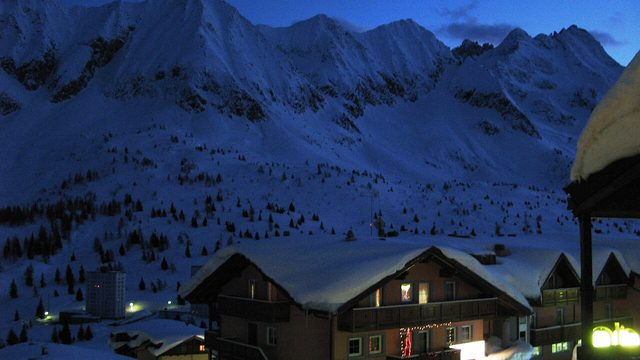
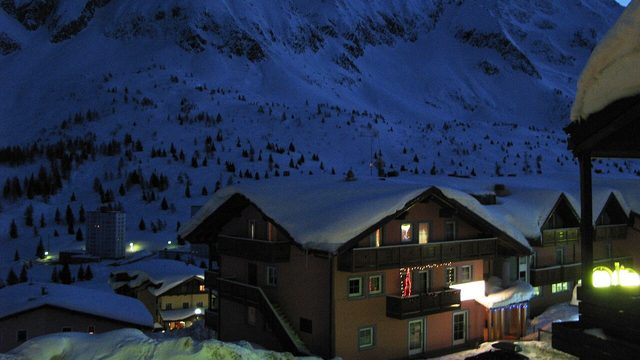
Photo credits only on the ski area pages, shortened to author via Wikimedia Commons; Tonale crop shows the whole house
Claude-Session: https://claude.ai/code/session_017JbZTVxU1rMxbwu8n2y5s2

diff --git a/_includes/ski-card.html b/_includes/ski-card.html
@@ -9,6 +9,5 @@
   <p class="skicard-time"><strong>{{ a.car }}</strong> by car &middot; {{ a.top }} top</p>
   <p class="skicard-vibe">{{ a.short }}</p>
   <span class="skicard-more">Read more</span>
-  {% if a.photo_credit %}<p class="skicard-credit">{{ a.photo_credit }}</p>{% endif %}
 </article>
 {%- endif -%}

diff --git a/articles/index.md b/articles/index.md
@@ -24,7 +24,6 @@ Some questions need more than a filter. These are written, checked on the ground
     <h2>Where to go skiing from Florence this winter</h2>
     <p>Fourteen ski areas sorted by driving time: two hours, four to five, and five or more. 2026/27 lift prices, size and altitude for each.</p>
     <span class="meta">Researched November 2026 &middot; 14 ski areas</span>
-    {% include ski-thumb.html id="valgardena" part="credit" %}
   </a>
   <a class="artcard has-photo" href="/articles/where-to-eat-and-stay-in-ponte-di-legno/">
     {% include ski-thumb.html id="pontedilegno" %}
@@ -32,7 +31,6 @@ Some questions need more than a filter. These are written, checked on the ground
     <h2>Ponte di Legno and the Tonale: a weekend on the snow</h2>
     <p>Casoncelli, gnoc de la cua and Silter cheese. Dinner in the valley, huts on the slopes, and which village to sleep in.</p>
     <span class="meta">Researched November 2026</span>
-    {% include ski-thumb.html id="pontedilegno" part="credit" %}
   </a>
   <a class="artcard has-photo" href="/articles/where-to-eat-and-stay-in-the-dolomites/">
     {% include ski-thumb.html id="fassa" %}
@@ -40,7 +38,6 @@ Some questions need more than a filter. These are written, checked on the ground
     <h2>The Dolomites from Florence: three valleys, three weekends</h2>
     <p>Val Gardena, Cortina and Madonna di Campiglio: a dinner, a mountain hut and a hotel in each.</p>
     <span class="meta">Researched November 2026</span>
-    {% include ski-thumb.html id="fassa" part="credit" %}
   </a>
   <a class="artcard has-photo" href="/articles/where-to-eat-and-stay-in-abetone/">
     {% include ski-thumb.html id="abetone" %}
@@ -48,7 +45,6 @@ Some questions need more than a filter. These are written, checked on the ground
     <h2>Abetone: a day on the snow from Florence</h2>
     <p>Ski at Abetone, eat in Cutigliano. A Bib Gourmand trattoria, tortelli at a refuge, and two hotels by the lifts.</p>
     <span class="meta">Researched November 2026</span>
-    {% include ski-thumb.html id="abetone" part="credit" %}
   </a>
   <a class="artcard has-photo" href="/articles/where-to-eat-and-stay-on-the-cimone/">
     {% include ski-thumb.html id="cimone" %}
@@ -56,7 +52,6 @@ Some questions need more than a filter. These are written, checked on the ground
     <h2>The Cimone: skiing with the best food in the Apennines</h2>
     <p>Tigelle country. A medieval inn near Sestola, a refuge hotel at the lifts, and where to eat in Fanano.</p>
     <span class="meta">Researched November 2026</span>
-    {% include ski-thumb.html id="cimone" part="credit" %}
   </a>
   <a class="artcard has-photo" href="/articles/where-to-eat-and-stay-in-val-gardena/">
     {% include ski-thumb.html id="valgardena" %}
@@ -64,7 +59,6 @@ Some questions need more than a filter. These are written, checked on the ground
     <h2>Val Gardena: wooden villages and the Sellaronda</h2>
     <p>The Dolomites trip that works by train. Seceda, Selva, Ortisei and the huts worth the stop.</p>
     <span class="meta">Researched November 2026</span>
-    {% include ski-thumb.html id="valgardena" part="credit" %}
   </a>
   <a class="artcard has-photo" href="/articles/where-to-eat-and-stay-in-cortina/">
     {% include ski-thumb.html id="cortina" %}
@@ -72,7 +66,6 @@ Some questions need more than a filter. These are written, checked on the ground
     <h2>Cortina: the most beautiful skiing in the Dolomites</h2>
     <p>Lagazuoi, Cinque Torri, Rifugio Averau and a Michelin star in town.</p>
     <span class="meta">Researched November 2026</span>
-    {% include ski-thumb.html id="cortina" part="credit" %}
   </a>
   <a class="artcard has-photo" href="/articles/where-to-eat-and-stay-in-madonna-di-campiglio/">
     {% include ski-thumb.html id="campiglio" %}
@@ -80,7 +73,6 @@ Some questions need more than a filter. These are written, checked on the ground
     <h2>Madonna di Campiglio: polished slopes under the Brenta</h2>
     <p>Groomed runs, a walkable village, lunch at the Spinale and the Grostè.</p>
     <span class="meta">Researched November 2026</span>
-    {% include ski-thumb.html id="campiglio" part="credit" %}
   </a>
   <a class="artcard has-photo" href="/articles/where-to-eat-and-stay-at-corno-alle-scale/">
     {% include ski-thumb.html id="corno" %}
@@ -88,7 +80,6 @@ Some questions need more than a filter. These are written, checked on the ground
     <h2>Corno alle Scale: small, wild and quiet</h2>
     <p>The emptiest snow within two hours of Florence, inside a regional park.</p>
     <span class="meta">Researched November 2026</span>
-    {% include ski-thumb.html id="corno" part="credit" %}
   </a>
   <a class="artcard has-photo" href="/articles/where-to-eat-and-stay-in-livigno/">
     {% include ski-thumb.html id="livigno" %}
@@ -96,7 +87,6 @@ Some questions need more than a filter. These are written, checked on the ground
     <h2>Livigno: high, cold and full of snow</h2>
     <p>Snow from November to May, two ski sides, pizzoccheri and sciatt, and duty-free evenings.</p>
     <span class="meta">Researched November 2026</span>
-    {% include ski-thumb.html id="livigno" part="credit" %}
   </a>
   <a class="artcard has-photo" href="/articles/where-to-eat-and-stay-in-cervinia/">
     {% include ski-thumb.html id="cervinia" %}
@@ -104,7 +94,6 @@ Some questions need more than a filter. These are written, checked on the ground
     <h2>Cervinia: skiing under the Matterhorn</h2>
     <p>Lunch facing the Matterhorn, a dinner worth leaving the village for, and a hotel you can ski to.</p>
     <span class="meta">Researched November 2026</span>
-    {% include ski-thumb.html id="cervinia" part="credit" %}
   </a>
   <a class="artcard has-photo" href="/articles/where-to-eat-and-stay-in-alta-badia/">
     {% include ski-thumb.html id="altabadia" %}
@@ -112,7 +101,6 @@ Some questions need more than a filter. These are written, checked on the ground
     <h2>Alta Badia: the Dolomites at their most refined</h2>
     <p>The Sellaronda from Corvara, grilled meat at Rifugio Scotoni and seafood at 2,000 metres.</p>
     <span class="meta">Researched November 2026</span>
-    {% include ski-thumb.html id="altabadia" part="credit" %}
   </a>
   <a class="artcard has-photo" href="/articles/where-to-eat-and-stay-in-val-di-fassa/">
     {% include ski-thumb.html id="fassa" %}
@@ -120,7 +108,6 @@ Some questions need more than a filter. These are written, checked on the ground
     <h2>Val di Fassa: the Sellaronda and the Marmolada</h2>
     <p>The closest Dolomites, a glacier at 3,265 metres and a Michelin star above Moena.</p>
     <span class="meta">Researched November 2026</span>
-    {% include ski-thumb.html id="fassa" part="credit" %}
   </a>
   <a class="artcard has-photo" href="/articles/where-to-eat-and-stay-on-plan-de-corones/">
     {% include ski-thumb.html id="kronplatz" %}
@@ -128,7 +115,6 @@ Some questions need more than a filter. These are written, checked on the ground
     <h2>Plan de Corones: one mountain, done perfectly</h2>
     <p>By train to the lifts, museums at the summit, and Norbert Niederkofler at both ends of the day.</p>
     <span class="meta">Researched November 2026</span>
-    {% include ski-thumb.html id="kronplatz" part="credit" %}
   </a>
   <a class="artcard has-photo" href="/articles/where-to-eat-and-stay-in-courmayeur/">
     {% include ski-thumb.html id="courmayeur" %}
@@ -136,7 +122,6 @@ Some questions need more than a filter. These are written, checked on the ground
     <h2>Courmayeur: Mont Blanc, lunch and hot springs</h2>
     <p>Lunch at Maison Vieille, the Skyway to 3,466 metres and the hot pools of Pré-Saint-Didier.</p>
     <span class="meta">Researched November 2026</span>
-    {% include ski-thumb.html id="courmayeur" part="credit" %}
   </a>
   <a class="artcard has-photo" href="/articles/where-to-eat-and-stay-in-bormio/">
     {% include ski-thumb.html id="bormio" %}
@@ -144,7 +129,6 @@ Some questions need more than a filter. These are written, checked on the ground
     <h2>Bormio: the Olympic downhill and the thermal baths</h2>
     <p>The Stelvio run from 3,012 metres, a medieval town and Roman hot springs.</p>
     <span class="meta">Researched November 2026</span>
-    {% include ski-thumb.html id="bormio" part="credit" %}
   </a>
 </div>
 </section>
